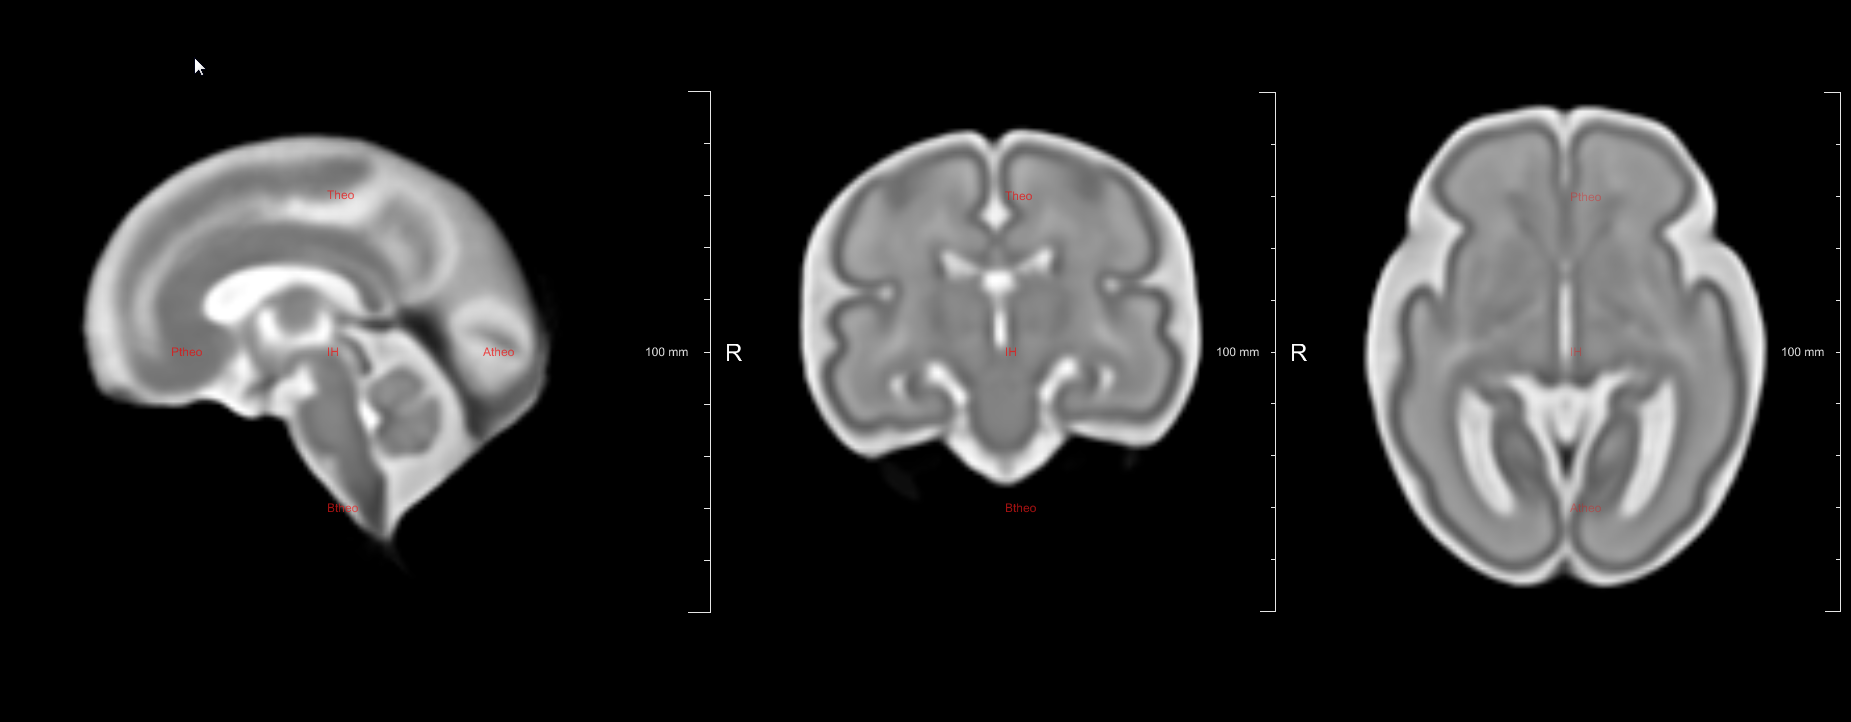
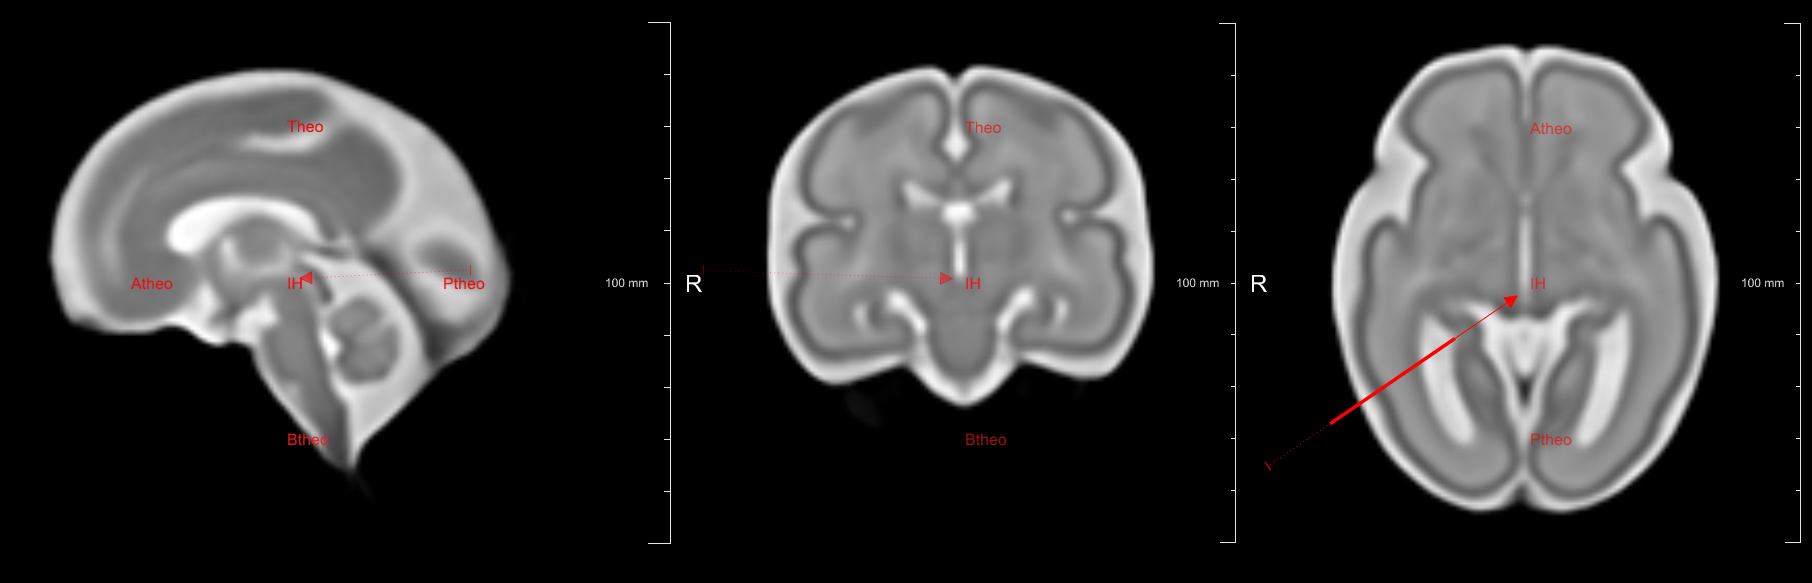
update positioning image in the documentation

Changed region(s): [[0.34, 0.0617, 1.0, 0.8954], [0.0, 0.0926, 0.3091, 0.8027], [0.5254, 0.741, 0.5563, 0.7719]]

diff --git a/Documentation/Publish/ModuleReference/ImageOrientationInterface.html b/Documentation/Publish/ModuleReference/ImageOrientationInterface.html
@@ -436,6 +436,7 @@ The mask based on the atlas are made using the module generateTemplateMask : <a 
         <div class="sphinxsidebarwrapper">
   <h3><a href="#">Table Of Contents</a></h3>
   <ul>
+    <li><a class="reference internal" href="index.html">Index</a></li>
 <li><a class="reference internal" href="#">ImageOrientationInterface</a></li>
 <li><a class="reference internal" href="#purpose">Purpose</a></li>
 <li><a class="reference internal" href="#examplevideos">ExampleVideos</a></li><ul>

diff --git a/Documentation/Publish/ModuleReference/usingSyngovia.html b/Documentation/Publish/ModuleReference/usingSyngovia.html
@@ -99,6 +99,7 @@
       <div class="sphinxsidebarwrapper">
        <h3><a href="#">Table Of Contents</a></h3>
          <ul>
+           <li><a class="reference internal" href="index.html">Index</a></li>
            <li><a class="reference internal" href="#Using SyngoVia">Using SyngoVia</a></li>
            <li><a class="reference internal" href="#purpose">Purpose</a></li>
            <li><a class="reference internal" href="#GetDataPACS">Get Data From PACS</a></li>

diff --git a/Documentation/Publish/ModuleReference/TotalVariationInterface.html b/Documentation/Publish/ModuleReference/TotalVariationInterface.html
@@ -191,6 +191,7 @@
         <div class="sphinxsidebarwrapper">
   <h3><a href="#">Table Of Contents</a></h3>
   <ul>
+    <li><a class="reference internal" href="index.html">Index</a></li>
 <li><a class="reference internal" href="#">TotalVariationInterface</a></li>
 <li><a class="reference internal" href="#windows">Windows</a><ul>
 <li><a class="reference internal" href="#id1">TotalVariationInterface</a></li>

diff --git a/Documentation/Publish/ModuleReference/SDIVerificationInterface.html b/Documentation/Publish/ModuleReference/SDIVerificationInterface.html
@@ -273,6 +273,7 @@
         <div class="sphinxsidebarwrapper">
   <h3><a href="#">Table Of Contents</a></h3>
   <ul>
+    <li><a class="reference internal" href="index.html">Index</a></li>
 <li><a class="reference internal" href="#">SDIVerificationInterface</a></li>
 <li><a class="reference internal" href="#windows">Windows</a><ul>
 <li><a class="reference internal" href="#id1">Interface</a></li>
